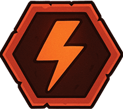
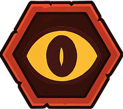
Improve symbol and victory screen text

diff --git a/victory-screen.js b/victory-screen.js
@@ -18,19 +18,19 @@ class VictoryScreen extends Screen {
       {
         id: "revelation",
         title: "Click to reveal the aftermath...",
-        text: "The tree's ancient whispers fade to silence. Its gnarled branches crumble to dust, and the cursed box begins to crack like an eggshell around me.",
+        text: "The weeks following the cursed box case were blissfully quiet. The disappearances stopped completely—no more missing persons reports, no more strange vanishings in the night. The city felt normal again, like it could finally breathe.",
         revealed: false,
       },
       {
         id: "escape",
-        title: "Click to discover your escape...",
-        text: "Light pours through the fractures—real light, not the sickly glow of this prison. I can smell the outside world: rain, exhaust, the city I know.",
+        title: "Click to discover the whispers...",
+        text: "Then the whispers started again. Bar talk, street corner rumors, hushed conversations in coffee shops. But this time it was about a storm cellar that appeared in different neighborhoods - one that you could enter but never leave.",
         revealed: false,
       },
       {
         id: "reflection",
-        title: "Click to hear Rusty's final words...",
-        text: '"Case closed," I mutter, straightening my trench coat. "Another case closed. The detective\'s work is never truly done, but tonight, justice has roots deeper than evil. Some mysteries are meant to be solved... and some boxes are meant to stay shut forever."',
+        title: "Click to hear Rusty's resolve...",
+        text: "He didn't wait for the newspaper clipping to start piling up, or for the line up of missing person requests that would soon be at his door - he just bunch on his trench coat and hit the road. He knew the job was never really done, that there's always another mystery waiting in the shadows.",
         revealed: false,
       },
     ];

diff --git a/items-config.js b/items-config.js
@@ -430,7 +430,7 @@ const ITEMS_CONFIG = {
         { itemId: 13, x: 20.4, y: 70.3, scale: 0.94, initiallyVisible: true },
         { itemId: 14, x: 15.2, y: 25.1, scale: 1.06, initiallyVisible: true },
         { itemId: 15, x: 49.5, y: 63.7, scale: 1.0, initiallyVisible: true },
-        { itemId: 16, x: 18.4, y: 56.5, scale: 2.15, initiallyVisible: true },
+        { itemId: 16, x: 82.2, y: 65.5, scale: 7.32, initiallyVisible: true },
         { itemId: 17, x: 44.3, y: 64.0, scale: 2.96, initiallyVisible: true },
         { itemId: 18, x: 27.6, y: 69.3, scale: 2.52, initiallyVisible: true },
         { itemId: 19, x: 8.8, y: 77.3, scale: 1.35, initiallyVisible: true },
